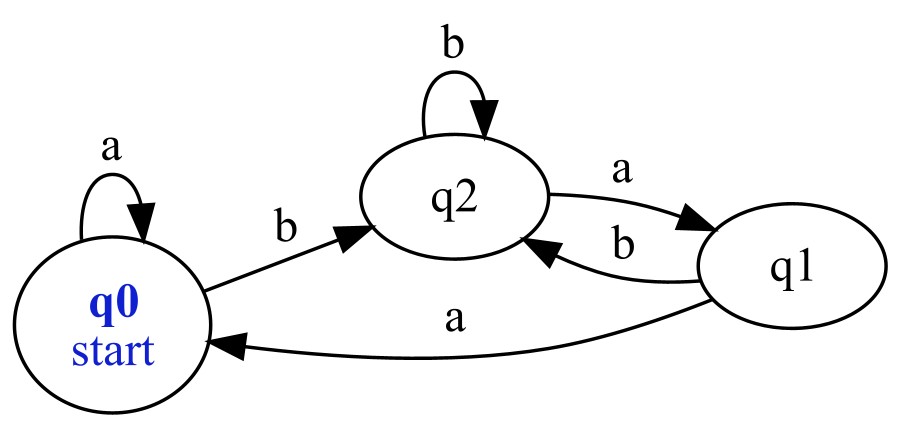
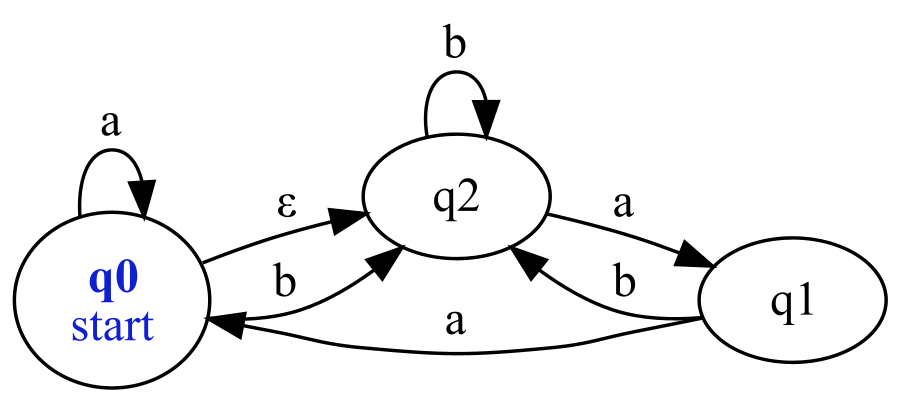
[Added] Simple epsilon support

diff --git a/src/main/java/com/company/Main.java b/src/main/java/com/company/Main.java
@@ -68,7 +68,7 @@ public class Main {
         System.out.println("-------------------------------");
 
         // Initialize all the connections
-        List<CustomTransition> connectionsQ0 = List.of(new CustomTransition("q0", "a", TransitionType.TO), new CustomTransition("q2", "b", TransitionType.TO));
+        List<CustomTransition> connectionsQ0 = List.of(new CustomTransition("q0", "a", TransitionType.TO), new CustomTransition("q2", "b", TransitionType.TO), new CustomTransition("q2", "", TransitionType.TO));
         List<CustomTransition> connectionsQ1 = List.of(new CustomTransition("q0", "a", TransitionType.TO), new CustomTransition("q2", "b", TransitionType.TO));
         List<CustomTransition> connectionsQ2 = List.of(new CustomTransition("q1", "a", TransitionType.TO), new CustomTransition("q2", "b", TransitionType.TO));
 

diff --git a/src/main/java/com/company/models/CustomTransition.java b/src/main/java/com/company/models/CustomTransition.java
@@ -1,6 +1,8 @@
 package com.company.models;
 import com.company.enums.TransitionType;
 
+import java.util.Objects;
+
 /**
  * A record class which will hold the Transition data
  *
@@ -14,6 +16,9 @@ public record CustomTransition(String name, String label, TransitionType transit
     }
 
     public String getLabel() {
+        if (Objects.equals(label, "")) {
+            return "ε";
+        }
         return label;
     }
 
